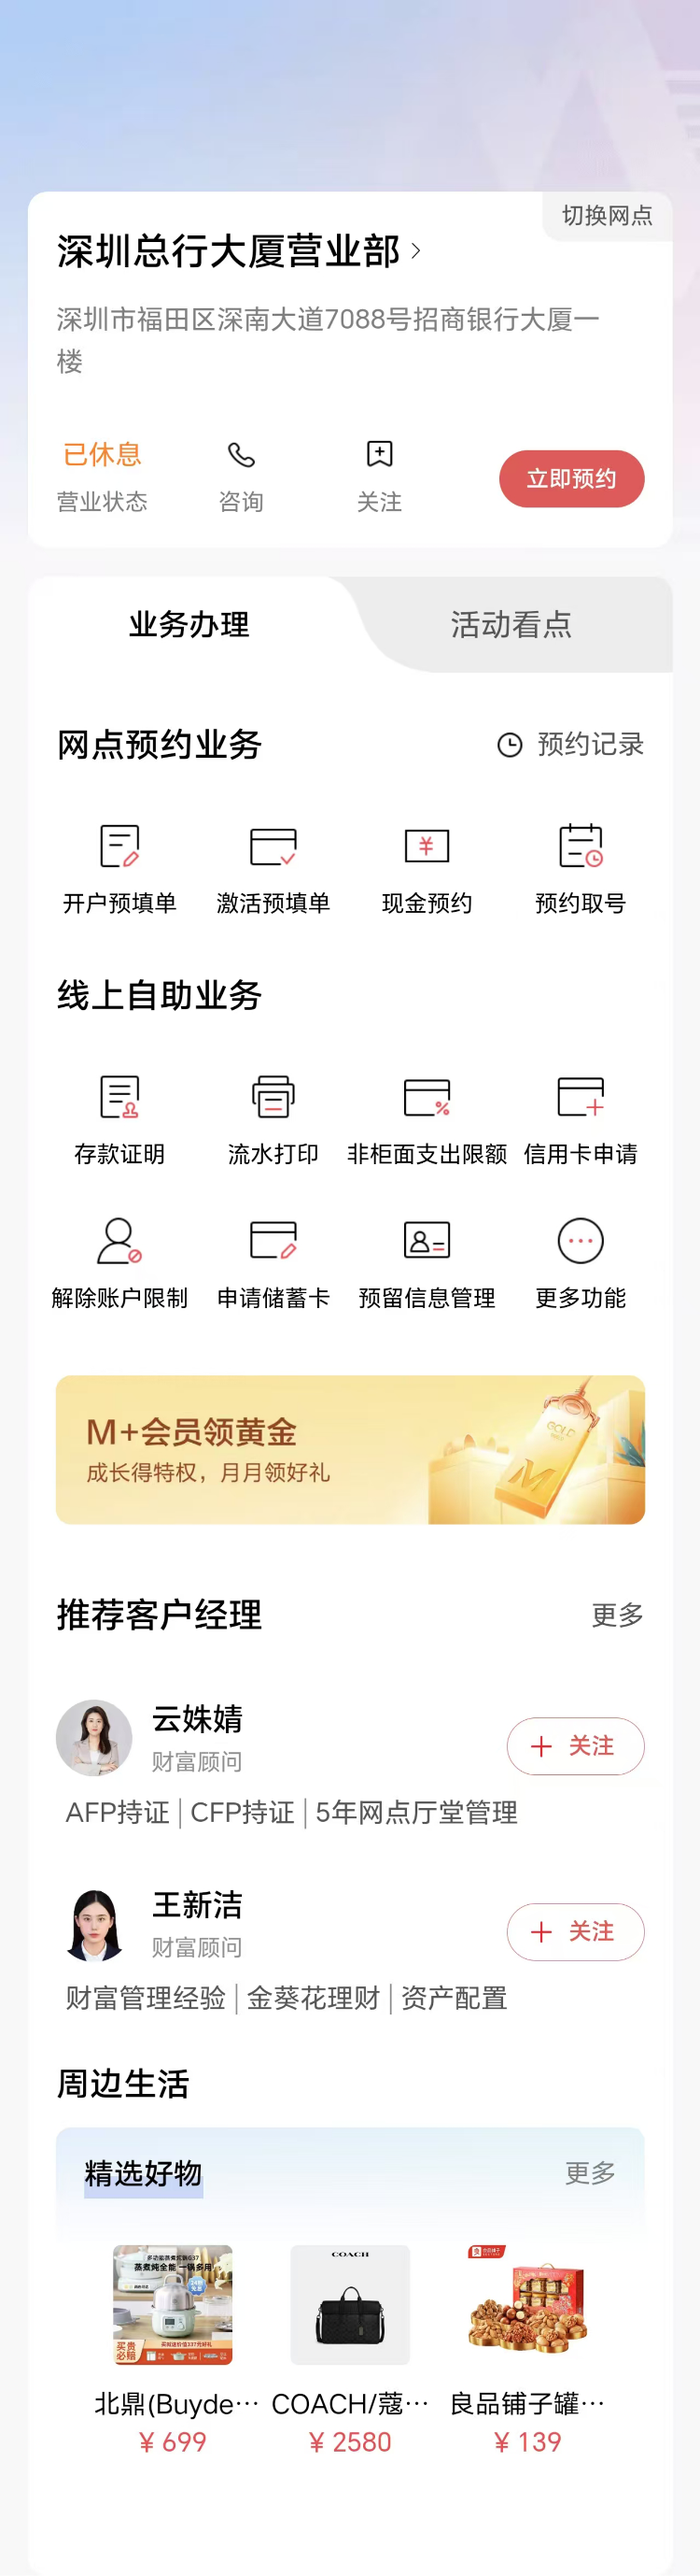
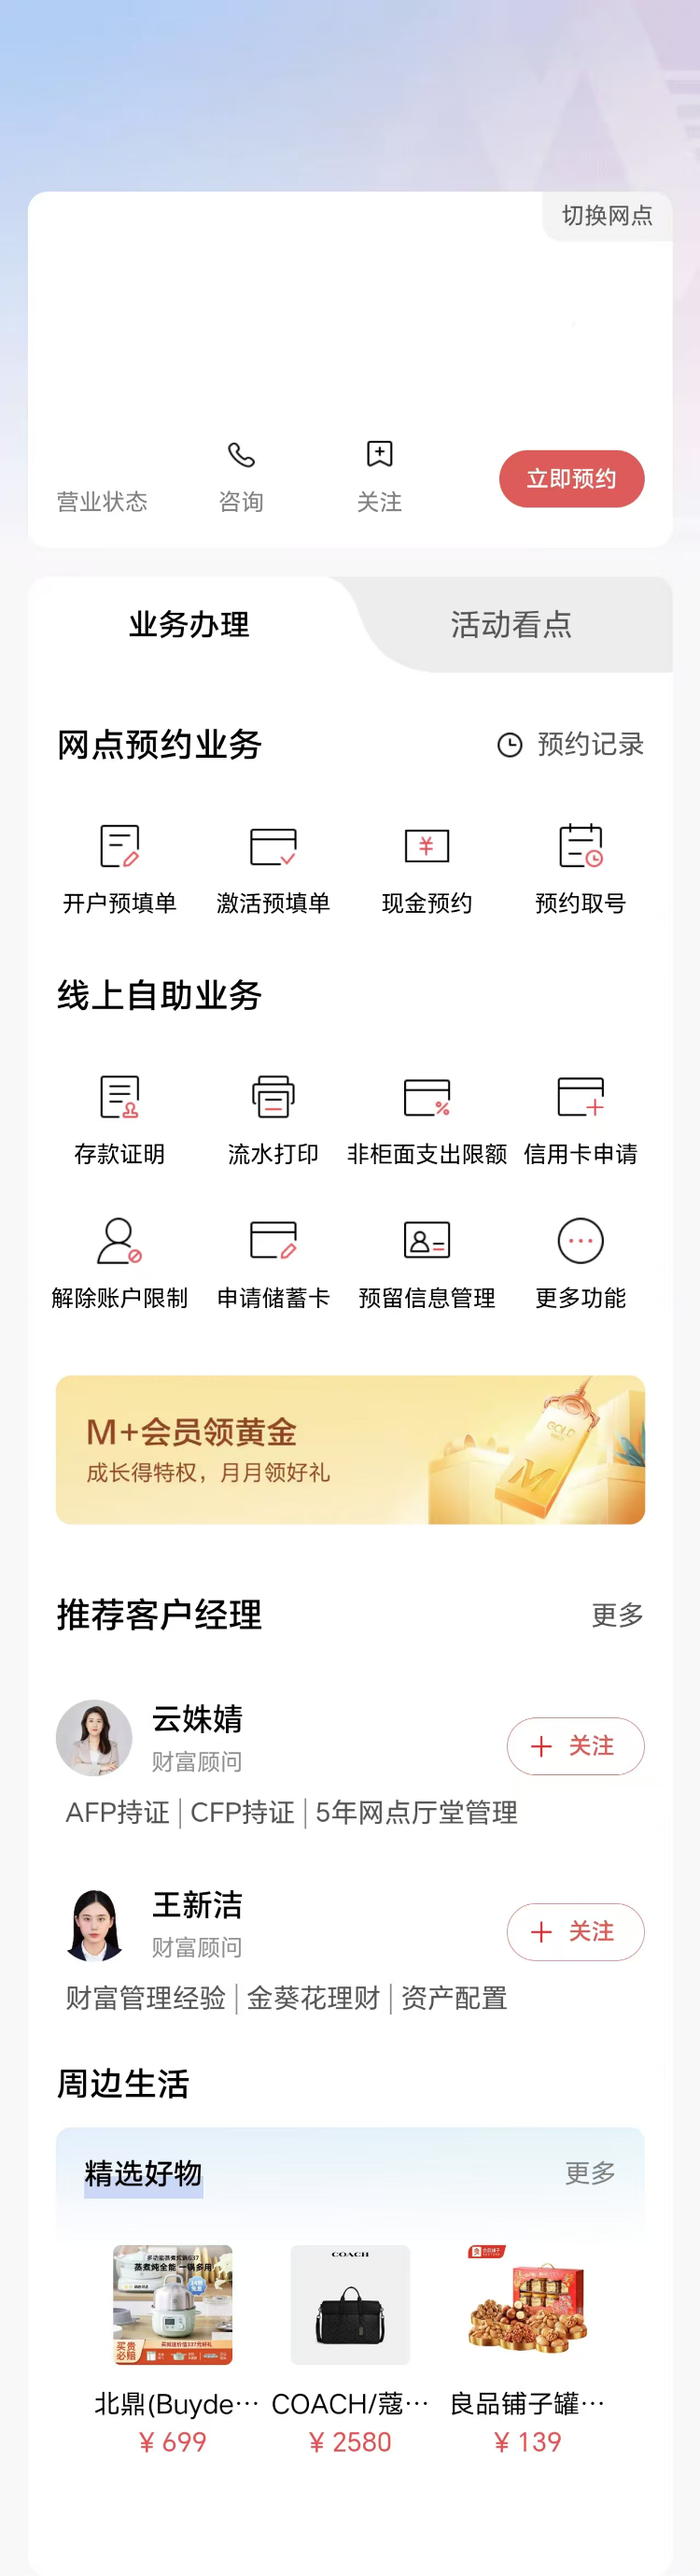
fix(*):网点页面;换了几张图

Changed region(s): [[0.092, 0.0936, 0.5827, 0.1872]]

diff --git a/cmb/pages/my/wd/wd.vue b/cmb/pages/my/wd/wd.vue
@@ -1,0 +1,150 @@
+<template>
+  <view class="app" :style="{ backgroundColor: bgColor }">
+    <navbar
+      v-if="gradient == 1"
+      :left-icon="
+        opacity > 0.5 ? '/static/icon/return@2x.png' : '/static/icon/back.png'
+      "
+      :placeholder="false"
+      :title="title"
+      :service-btn="serviceBtn"
+      :service-btn-icon="
+        opacity > 0.5
+          ? '/static/icon/customer-w.png'
+          : '/static/icon/customer-black.png'
+      "
+      :bg-color="`rgba(255,255,255,${1 - opacity})`"
+      :ai-btn="aiBtn"
+      :aiBtnIcon="
+        opacity > 0.5 ? '/static/icon/icon5-w.png' : '/static/icon/icon5.png'
+      "
+      :more-btn="moreBtn"
+      :more-btn-icon="
+        opacity > 0.5 ? '/static/icon/icon3-w.png' : '/static/icon/icon3.png'
+      "
+      :title-color="`rgba(${255 * opacity},${255 * opacity},${
+        255 * opacity
+      },1)`"
+    >
+    </navbar>
+    <navbar
+      v-else
+      :placeholder="false"
+      :title="title"
+      title-color="#000"
+      :service-btn="serviceBtn"
+      :bg-color="`rgba(255,255,255,${1 - opacity})`"
+      :ai-btn="aiBtn"
+      :more-btn="moreBtn"
+    >
+    </navbar>
+    <view class="pages" :class="gradient == 2 ? 'pages-1':''">
+      <image class="page-image" :src="pageImage" mode="widthFix"></image>
+      <view class="bank-name">
+        <text>{{ bankInfo.branchBelongs.slice(0, bankInfo.branchBelongs.length-2) }}营业部</text>
+        <image
+          class="arrow-right-icon"
+          src="/static/icon/arrow-gray-right.png"
+          mode=""
+        ></image>
+      </view>
+      <view class="open-status">
+        <text>营业中</text>
+      </view>
+    </view>
+  </view>
+</template>
+
+<script>
+import { mapState } from "vuex";
+export default {
+  data() {
+    return {
+      pageImage: "",
+      title: "网点",
+      bgColor: "#fff",
+      serviceBtn: true,
+      moreBtn: true,
+      aiBtn: false,
+      opacity: 1,
+      gradient: 1,
+    };
+  },
+  onLoad(options) {
+    if (options.gradient) {
+      this.gradient = options.gradient;
+      if ("gradient" in options) {
+        this.pageImage = options.gradient == '1' ? '/static/pages/wdwd.png':'/static/pages/wd.png';
+      }
+    }
+  },
+  computed: {
+    ...mapState(["navBarHeight", "statusBarHeight", "userInfo"]),
+    bankInfo() {
+      if (this.userInfo.bankList.lengtn <= 0) return {};
+      return this.userInfo.bankList[0];
+    },
+  },
+  onPageScroll(e) {
+    var scrollTop = e.scrollTop;
+    if (scrollTop == 0) {
+      this.opacity = 1;
+      return;
+    } else if (scrollTop >= this.statusBarHeight) {
+      this.opacity = 0;
+      return;
+    }
+    this.opacity = 1 - scrollTop / this.statusBarHeight;
+  },
+};
+</script>
+
+<style lang="scss">
+.app {
+  width: 750rpx;
+  min-height: 100vh;
+}
+
+.pages {
+  width: 750rpx;
+  height: auto;
+  position: relative;
+
+  .page-image {
+    width: 750rpx;
+    height: auto;
+  }
+
+  .arrow-right-icon {
+    width: 40rpx;
+    height: 40rpx;
+  }
+
+  .open-status {
+    position: absolute;
+    left: 70rpx;
+    top: 435rpx;
+    font-size: 26rpx;
+    color: #00c100;
+  }
+
+  .bank-name {
+    position: absolute;
+    left: 60rpx;
+    top: 220rpx;
+    font-size: 44rpx;
+    display: flex;
+    align-items: center;
+    font-weight: 500;
+  }
+}
+.pages-1 {
+  .open-status {
+    top: 467rpx;
+  }
+
+  .bank-name {
+    top: 240rpx;
+  }
+}
+</style>

diff --git a/cmb/pages/my/my.vue b/cmb/pages/my/my.vue
@@ -116,7 +116,8 @@
 						@click="commonPages('/pages/common/common?pageImage=/static/pages/gcfq.png&title=购车分期额度&&gradient=2')">
 					</view>
 					<view class="item"
-						@click="commonPages('/pages/common/common?pageImage=/static/pages/wdwd.png&title=网点&&gradient=2')">
+            @click="commonPages('/pages/my/wd/wd?gradient=1')">
+						<!-- @click="commonPages('/pages/common/common?pageImage=/static/pages/wdwd.png&title=网点&&gradient=2')"> -->
 					</view>
 					<view class="item"
 						@click="commonPages('/pages/commonPages/commonPages?pageImage=/static/pages/sczx.png&title=收藏中心&serviceBtn=false&moreBtn=false')">

diff --git a/cmb/pages/transfer/index/index.vue b/cmb/pages/transfer/index/index.vue
@@ -34,10 +34,8 @@
 						v-for="(item,index) in userInfo.bankList" :key="item.bankCard">
 						<image class="user-icon" src="http://img.chinajianse.com/bank/icon/CMB.png" mode=""></image>
 						<view class="user-name bank-name">
-							<view>
-								{{item.realName}}
-							</view>
-							<view class="bank-name-text">{{item.bankName}}<text>({{item.bankCard.slice(-4)}})</text>
+							<view>招商银行</view>
+							<view class="bank-name-text">尾号<text>({{item.bankCard.slice(-4)}})</text>
 							</view>
 						</view>
 					</view>

diff --git a/cmb/pages/bill/bill.vue b/cmb/pages/bill/bill.vue
@@ -316,12 +316,15 @@
 			moneySort() {
 				if (this.orderSort) {
 					this.orderSort = ''
+          this.getBillPage()
 					return
 				}
 				this.orderSort = '1'
+        this.getBillPage()
 			},
 			bankCardChange(value) {
 				this.bankCard = value.name
+        this.getBillPage()
 			},
 			billFilter(value) {
 				this.transactionCategory = value

diff --git a/cmb/pages/bankCard/details/details.vue b/cmb/pages/bankCard/details/details.vue
@@ -181,7 +181,7 @@
 			},
 			branchBelongs() {
 				navigateTo({
-					url: `/pages/common/common?pageImage=/static/pages/wd.png&title=网点&gradient=2`
+					url: `/pages/my/wd/wd?gradient=2`
 				})
 			},
 			scheduledTransfer() {
